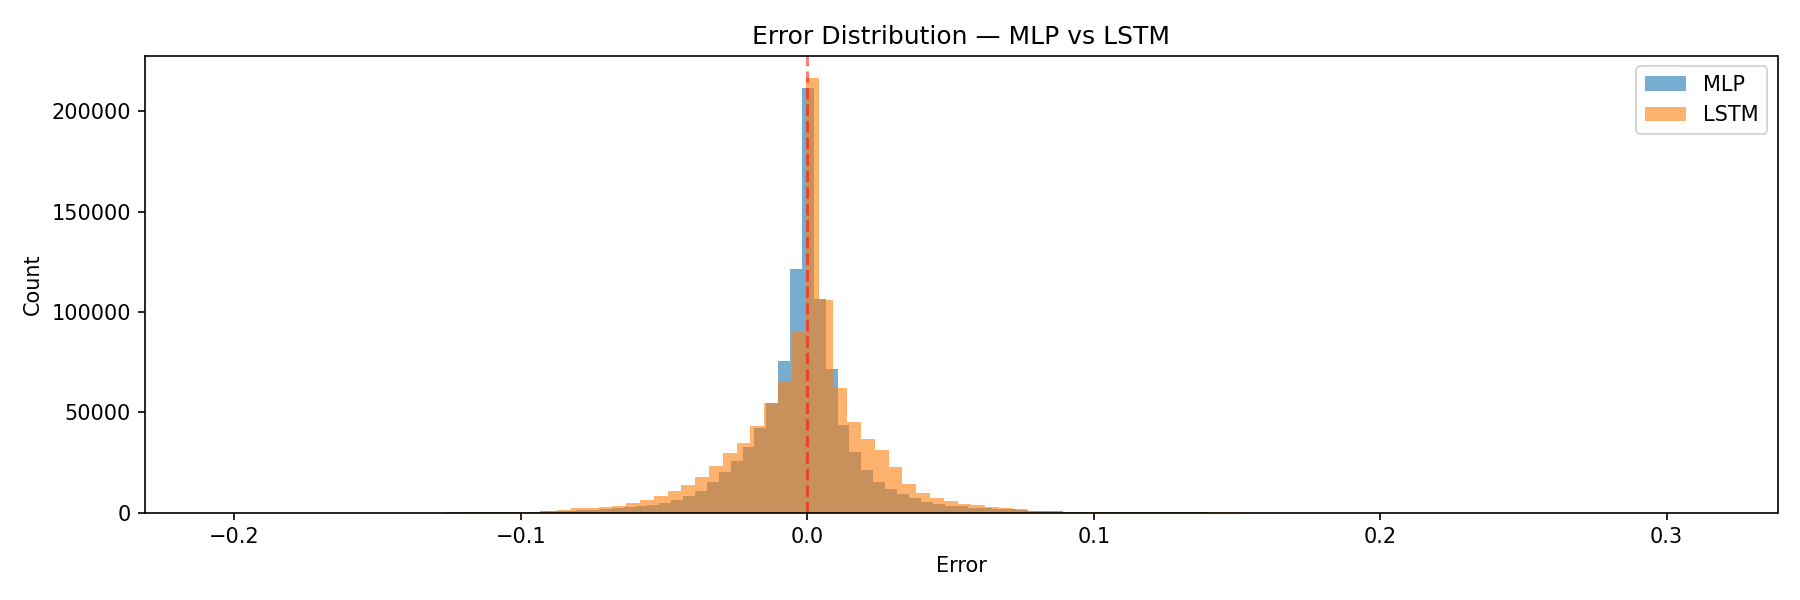
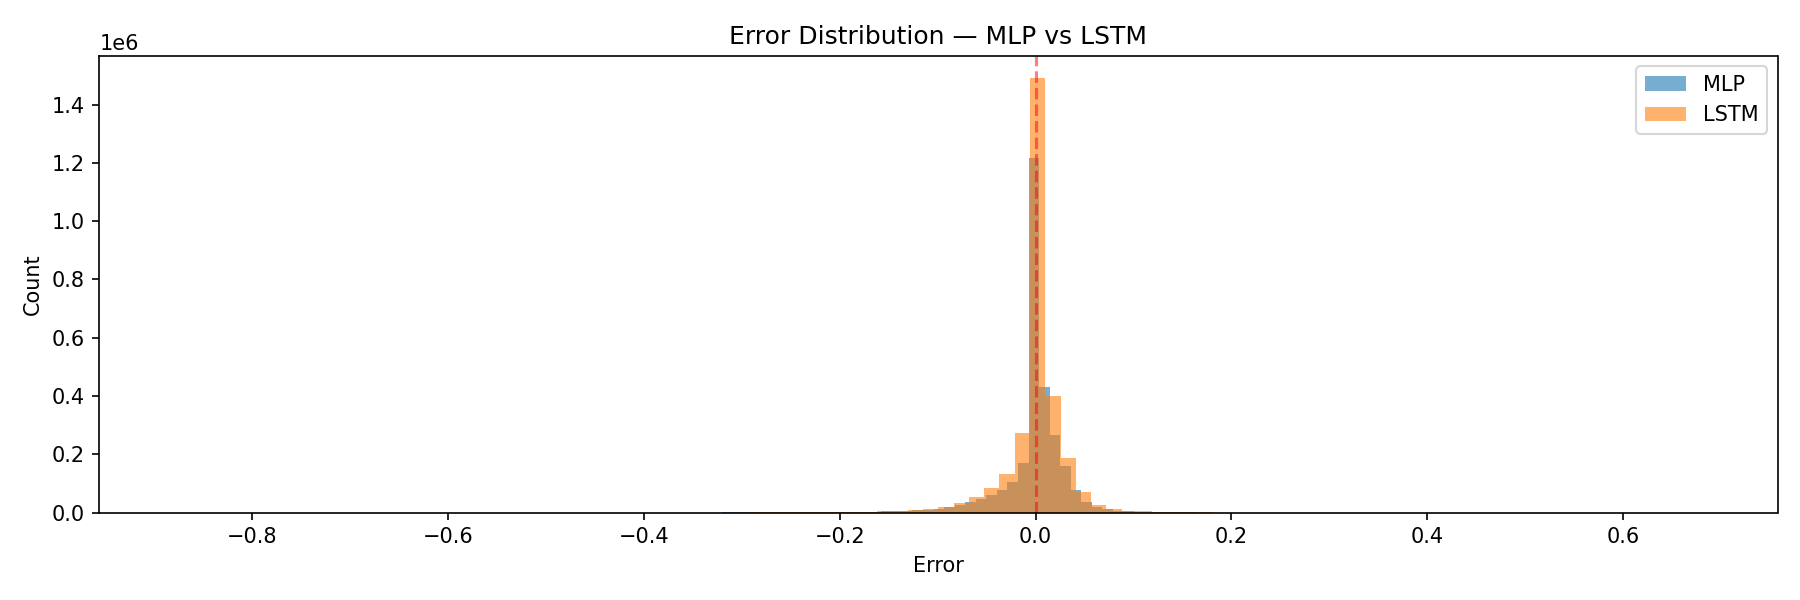
trained with fixed data setup

diff --git a/src/experiment/run_evaluation.py b/src/experiment/run_evaluation.py
@@ -11,8 +11,8 @@ from src.io.audio import load_audio
 from src.evaluation.spectral import plot_spectral_comparison
 
 # --- Load audio ---
-dry, sr = load_audio("data/processed/clean_01_test.wav")
-wet, _  = load_audio("data/processed/driven_01_test.wav")
+dry, sr = load_audio("data/processed/training_data_10_clean.wav")
+wet, _  = load_audio("data/processed/training_data_10_driven.wav")
 
 # --- Val split ---
 total_len = len(dry)
@@ -26,7 +26,7 @@ val_loader  = DataLoader(val_dataset, batch_size=512, shuffle=False)
 
 # --- Load models ---
 mlp = MLPModel(input_size=101)
-mlp.load_state_dict(torch.load("models/mlp_baseline.pt"))
+mlp.load_state_dict(torch.load("models/new_mlp.pt"))
 mlp.eval()
 
 lstm = LSTMModel(input_size=1, hidden_size=32, num_layers=1)

diff --git a/src/experiment/train_lstm.py b/src/experiment/train_lstm.py
@@ -8,8 +8,8 @@ import numpy as np
 from torch.utils.data import DataLoader
 
 # --- Load audio ---
-dry, d_sr = load_audio("data/processed/clean_01_test.wav")
-wet, w_sr = load_audio("data/processed/driven_01_test.wav")
+dry, d_sr = load_audio("data/processed/training_data_10_clean.wav")
+wet, w_sr = load_audio("data/processed/training_data_10_driven.wav")
 
 # --- Train/validation split ---
 total_len = len(dry)
@@ -32,7 +32,7 @@ optimizer = get_optimizer(model)
 
 # --- Train ---
 train_losses, val_losses = train(
-    model, train_loader, val_loader, loss_fn, optimizer, epochs=10
+    model, train_loader, val_loader, loss_fn, optimizer, epochs=20
 )
 
 # --- Save model ---

diff --git a/src/experiment/train_mlp.py b/src/experiment/train_mlp.py
@@ -8,8 +8,8 @@ import numpy as np
 from torch.utils.data import DataLoader
 
 # --- Load audio ---
-dry, d_sr = load_audio("data/processed/clean_01_test.wav")
-wet, w_sr = load_audio("data/processed/driven_01_test.wav")
+dry, d_sr = load_audio("data/processed/training_data_10_clean.wav")
+wet, w_sr = load_audio("data/processed/training_data_10_driven.wav")
 
 # --- Train/validation split ---
 total_len = len(dry)
